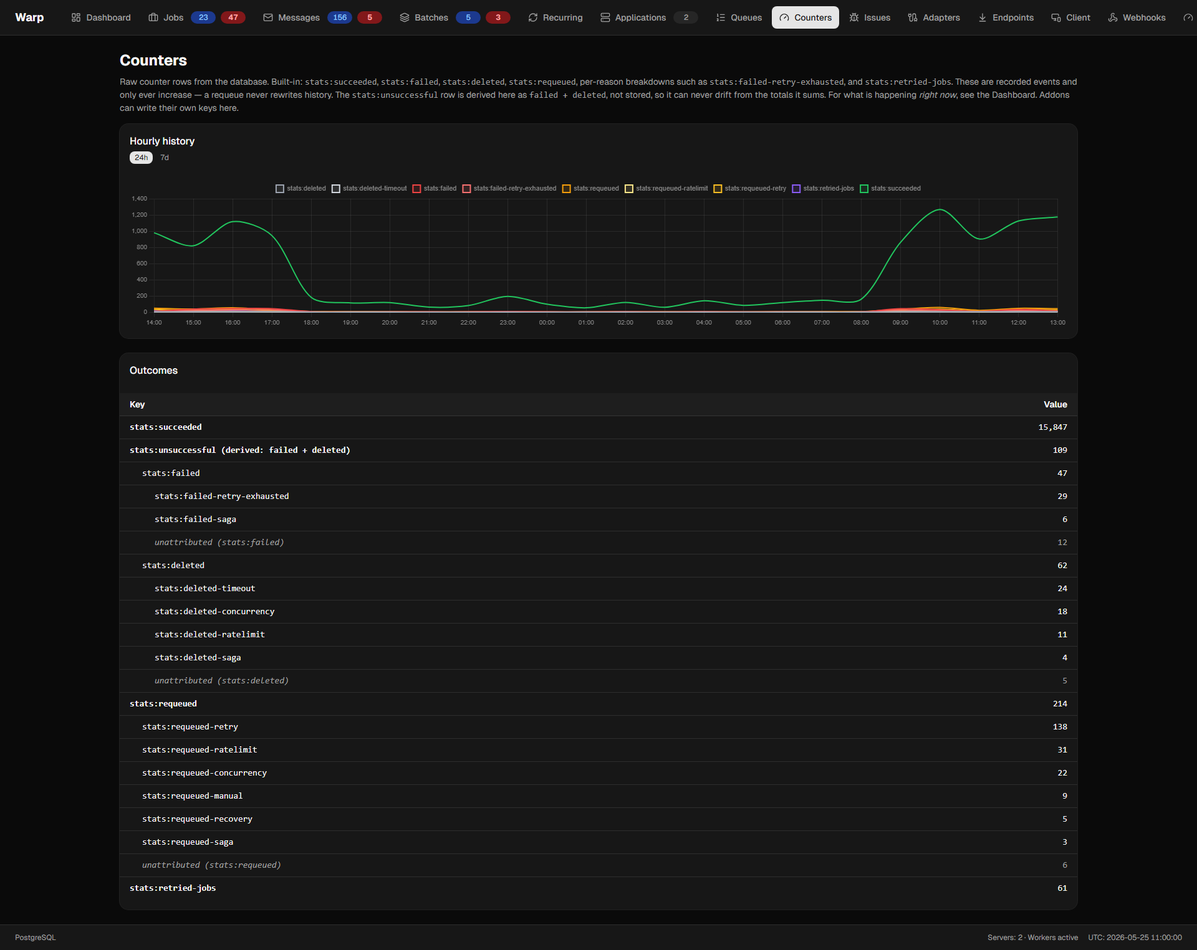
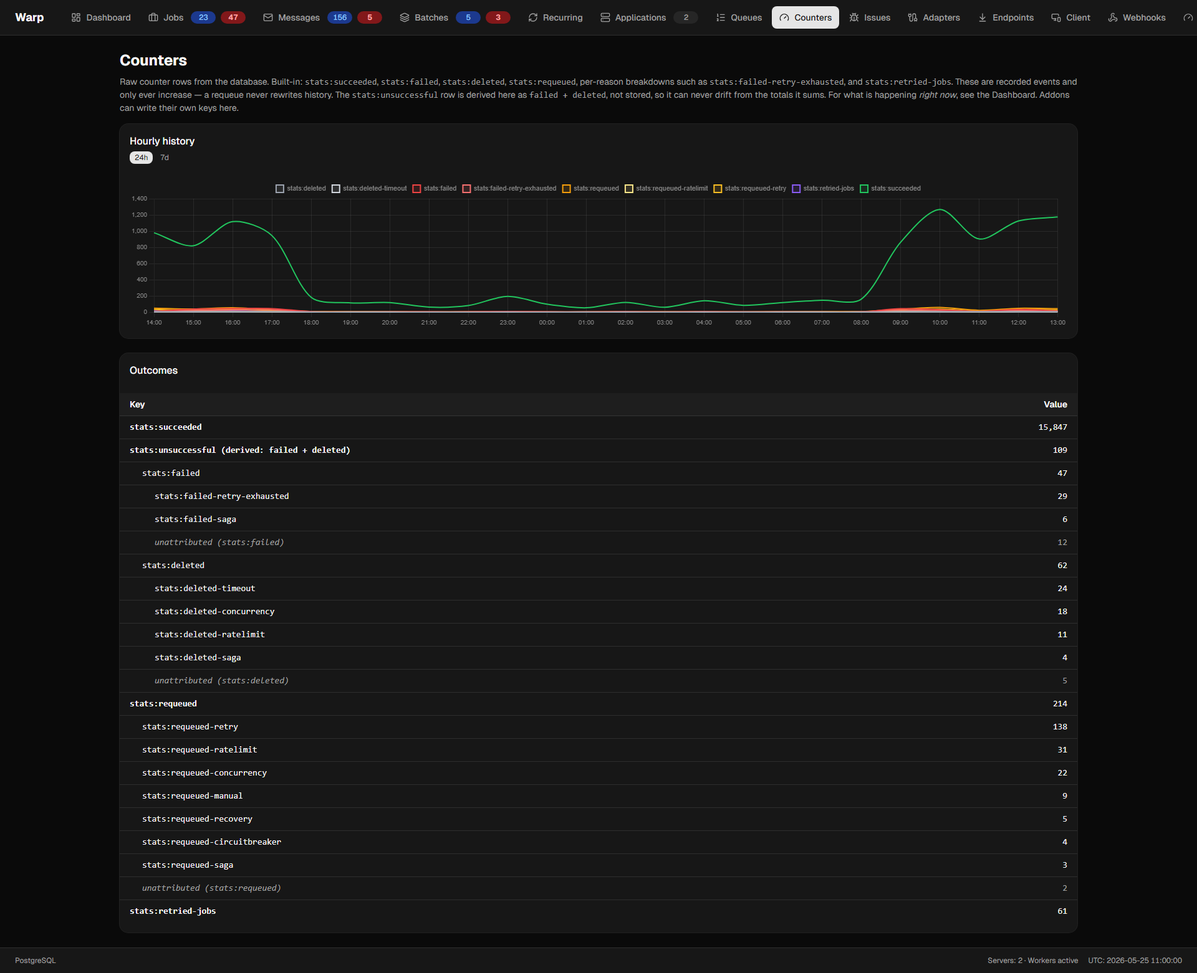
Docs: close the drift from the three review-fix rounds
Audited every doc surface against the code after three rounds of incremental
fixes — five had drifted:

- queue-metrics.md claimed warp.job.requeued is emitted "at finalization";
  it now fires for every requeue (worker, manual, recovery), post-commit on
  the non-worker paths.
- circuit-breaker.md did not document that retry exhaustion (any Failed
  outcome) counts toward the circuit while reschedules/deletes do not.
- background-services.md documented the 30s lease TTL without the 3x
  heartbeat margin AddWarpServer now enforces at startup.
- configuration.md's Queues/DefaultQueue rows did not describe the
  untouched-Queues-follows-DefaultQueue coherence rule.
- ui/counters.md still described the pre-taxonomy page: four flat keys and
  an alphabetical table, no reason breakdown, no retried-jobs, no derived
  umbrella, no unattributed remainder. Rewritten to match the shipped page.

Also: .claude/rules §8.33 updated (CircuitBreaker=9, meter coverage, the
four review-learned interlocks), stats:requeued-circuitbreaker added to the
demo data, and the Counters screenshots regenerated (only the changed page
staged - the harness pixel-churns all 56).

Claude-Session: https://claude.ai/code/session_01647g4ssftH3g6ps4FPA7eb

diff --git a/src/ui/src/demo/data.ts b/src/ui/src/demo/data.ts
@@ -297,6 +297,7 @@ export function getCountersDemo() {
     { key: 'stats:requeued-retry', value: 138 },
     { key: 'stats:requeued-ratelimit', value: 31 },
     { key: 'stats:requeued-concurrency', value: 22 },
+    { key: 'stats:requeued-circuitbreaker', value: 4 },
     { key: 'stats:requeued-manual', value: 9 },
     { key: 'stats:requeued-recovery', value: 5 },
     { key: 'stats:requeued-saga', value: 3 },

diff --git a/.claude/rules/project-specific.md b/.claude/rules/project-specific.md
@@ -53,4 +53,4 @@
 - **§8.30** **Metrics retention tiers** make every time-bucketed `Statistic` series multi-resolution: **fine (5-min) → hourly → daily**, downsampled by rollup instead of the old delete-only prune. **Explicit tier marker** `MetricTiers` (`Warp.Core.Services`, `internal`): trailing suffix `:{m5|h1|d1}:{stamp}` (`yyyy-MM-dd-HH-mm` / `-HH` / day) — chosen over inferring resolution from stamp shape so per-family parsers stay fixed-length + disjoint (§8.6/§8.19). Applies to the hist/pcth families with a windowed consumer or latency histogram — **`jobstat` + `qwait` emit the fine tier** (fine `hist` + a new tiered **`pcth`** latency histogram alongside the untouched lifetime `pct`, for windowed percentiles); **`stats:`/adapter/endpoint/clientevent/errorgroup keep emitting unmarked hourly** and are rolled to daily by the generic pass (no emit change, strictly more history retained than the old delete). **Lifetime totals (`…:{token}`, no date) and lifetime `pct` are untouched.** **Emit change is inside each `*Keys.Build()`** (worker call sites just pass `MetricTiers.Suffix(Fine, now, FineResolutionMinutes)` instead of an hour string) — **zero `CounterAggregator` change** (it folds any key). **`StatisticRollup<TContext>`** is an `IServerTask` (§2.3, registered in `AddServerHostCore` beside `ExpirationCleanup`, `LockKey="warp:stat-rollup"`, cadence `WarpServerConfiguration.StatisticRollupInterval` default **10m**) — **family-agnostic**: `MetricTiers.TryClassifyKey` splits any key into (base, tier, bucket) from the trailing suffix (marked **or** legacy unmarked `:yyyy-MM-dd-HH`, so **pre-3.10 rows migrate to daily automatically**), then per pass it **sums-then-deletes** fine→hourly (older than `FineResolutionRetention` 6h) and hourly→daily (older than `HourlyStatisticsRetention` 7d — repurposed from a delete age), and prunes daily (older than `DailyStatisticsRetention` 90d, `null`=keep forever). **Crash-idempotent** inside the task lock transaction (source gone once its value lands in the parent); retention ordering (fine≪hourly≪daily) keeps targets/sources disjoint, with a guard that drops a colliding target so a pass can never update-then-delete the same row (only reachable if rollup was disabled past the hourly window). The **old delete-only hourly prune** in `ExpirationCleanup` (+ its `TryParseHourlySuffix`) is **removed**. **Readers (all history readers are tier-aware — daily is retained *and* read, not just stored):** `MetricTiers.TryClassifyKey` backs `DashboardStatsService.GetStatsHistory`/`GetCountersHistory`/`GetCounters` (tiered keys stay out of the counters *table*; fine buckets **down-bin to their hour**, grouped by base-key + hour), and each per-family chart parser — `AdapterCounterKeys`/`EndpointCounterKeys`/`ClientEventKeys.TryParseHistory` — accepts the marked tiers **and** legacy unmarked hourly and down-bins to the hour, so a rolled-to-daily window past the hourly retention still charts. Lifetime/`pct` reads untouched. **Config** on `WarpConfiguration`: `FineResolutionMinutes` (5; **must be >= 1**, validated fail-fast in `AddWarpServer` along with `fine < hourly < daily` ordering), `FineResolutionRetention`, `HourlyStatisticsRetention`, `DailyStatisticsRetention`; `StatisticRollupInterval` on `WarpServerConfiguration` (the rollup is the **only** pruner of time-bucketed rows now — `null` lets them accumulate). **No schema migration** — all tiers are new rows in the existing `Statistic`/`Counter` tables. This is the storage foundation SLO fast-burn reads its short window from. See `website/docs/features/metrics-retention.md`.
 - **§8.31** **SLO / error budget** turns Warp's durable aggregates into objectives with error-budget + multi-window burn-rate alerting. **Opt-in** `opt.AddSlo(o => o.AddObjective(...))` (registers `ISloMarker` for the dashboard `slo` flag + an insert-if-absent config seeder — DB wins, never clobbers a dashboard edit; a seed failure logs **Error**, not a swallowed Warning, since the schema is migrator-gated present). **Boundary validation** (`SloValidation`, shared by the upsert endpoint → 400 and the seeder/`AddObjective` → throw): Kind in range, positive window, rate target in (0,1), threshold target > 0, latency percentile 1–99 defaulted to 95, percentile cleared for non-latency kinds — a malformed objective can't silently pin itself Healthy (window≤0) or Breaching (rate target>1). **Entities** (always-in-schema §2.11, mirrored §2.14): `SloDefinition` (`SloKind` {SuccessRate=1, QueueWaitLatency=2, ExecutionLatency=3, BacklogDepth=4, DeadlineAttainment=5}, Dimension=job-type/queue/`*`, Application?, TargetValue, Percentile?, WindowSeconds, Enabled; enums from 1 §8.11) + `SloEvaluation` (1:1, PK=`SloDefinitionId` — **`ValueGeneratedNever()`**: a caller-supplied FK-as-PK, not an IDENTITY, or SqlServer rejects the explicit insert while Postgres tolerates it; Attainment, BudgetRemaining, BurnRateShort/Long, `SloState` {Healthy=1, Warning=2, Breaching=3, Acknowledged=4, **NoData=5**}, AcknowledgedUntil?, LastEvaluatedAt). **`SloEvaluator<TContext>`** is an `IServerTask` (§2.3, like `ErrorGroupAggregator`, registered in `AddWarpServerCore`; cadence `WarpConfiguration.SloEvaluationInterval` default **1m**, null disables) — reads the already-folded `jobstat`/`qwait`/`qbacklog`/`deadline` aggregates via the merged Statistic+Counter read, computes attainment/budget/burn with pure **`SloMath`** (rate `budget = 1 − burn`, `burn = errorRate ÷ allowedError`; threshold `budget = (target − observed)/target`; one `Classify`), upserts `SloEvaluation`, and buffers a breach event dispatched **post-commit from `OnCommittedAsync`** (§8.25 — never `ExecuteAsync`). **No-data ≠ Healthy:** an objective whose dimension matched **zero** observations in the window is `SloState.NoData` (a typo'd job-type/queue reads distinct from a false green, never alerts); the unknown-`Kind` evaluator arm logs **Error** and reports NoData, never a false Healthy. **Fast-burn:** short window = `WindowSeconds/12` floored to **5 min**, genuinely populated by reading the **fine tier (§8.30)**; latency kinds read the tiered **`pcth`** histogram (windowed percentiles) over the **job-domain bucket ladder widened to 5 min** (`JobStatsKeys`/`QueueWaitKeys` gain 30s/60s/300s rungs — job execution/queue-wait run past the 10s HTTP-scale top, so a 30s/60s latency target observes and breaches instead of saturating at 10s; one `BucketFor` write per finalization, no hot-path cost). **Deadline-miss:** derived at finalization from `TimeoutDeadlineUtc` (§8.7) vs the wall clock (nothing added to the fetch/claim loop) — a job reaching **any** terminal state past the deadline is a miss, **including a late `Completed`** (a token-ignoring handler, §8.5); one always-on meter + a sink-gated tiered **`deadline`** counter. **Alerting:** healthy→breaching edge fires `WarpEventType.SloBreached`=7 (`BacklogBreached`=5 wired for depth objectives), once per edge, **ack-suppressed**. **Read/command:** `ISloQueryService`/`ISloCommandService` registered by `AddWarp` (dashboard-only hosts resolve them); routes `GET/POST/DELETE {prefix}/api/slo(+/{id})` + `/ack`; dashboard **SLOs** page (`/slo`, gated on the `slo` addon flag). Worker hot path untouched beyond the one deadline-miss counter (§0.2/§6.1). See `website/docs/features/slo-error-budget.md`.
 - **§8.32** **Dropped-record visibility.** The lossy recording pipelines (adapters §8.19, endpoints §8.21, client §8.27) drop records when their bounded channel is full and increment an always-on OTel meter (`warp.{adapter|endpoint|client}.records_dropped`) — reliable because the drop signal never rides the lossy channel it reports on, but only observable through an OTel backend. To make a saturated pipeline visible **in-box** (the whole point of the dashboard): each drop site also calls `DroppedRecordCounters.Track(DropPipeline, n)` (a single interlocked add — safe on the recording-failure path) into a process-global counter; a per-process `DroppedRecordReporter<TContext>` (`BackgroundService`, **not** a locked `IServerTask` — the counters are per-process, each process reports its own; 30s cadence, **no DB work when nothing dropped** so it's a good neighbour) drains them and folds each delta to the durable tiered stat `warpsys:records-dropped:{pipeline}` (`DroppedRecordKeys`, disjoint `warpsys` first-segment namespace §8.6/§8.19; classified/rolled by the generic `MetricTiers` reader §8.30). `DashboardStatsService` sums the last-24h buckets (windowed, so the tile self-clears) into `DashboardStatistics.{Adapter|Endpoint|Client}RecordsDropped`, surfaced as a red-when-nonzero **Dropped (24h)** tile on the dashboard. The reporter also raises a **throttled** (per-pipeline 5-min cooldown) `WarpEventType.RecordsDropped`=8 (`RecordsDroppedEvent`, Warning) post-commit through the notifier seam (§8.25), so a saturated pipeline is alertable in Slack/email **without OTel**. Enums from 1 (`DropPipeline {Adapter=1, Endpoint=2, Client=3}`).
-- **§8.33** **Outcome metrics taxonomy (append-only `stats:`, reason-attributed breakdown).** Governing principle: **a metric records an event; current state is a query.** Every `stats:` key is now **append-only** — `JobCommandService.DecrementStatForState` and the decrement arm of `ApplyRequeueAccounting` are **removed, do not reintroduce them**: restating `succeeded`/`failed`/`deleted` on requeue caused four distinct defects — (1) the decrement wrote the *lifetime* key only, so a lifetime total silently disagreed with the sum of its own hourly buckets, (2) the dashboard's realtime rate chart deltas the total and clamped the resulting negative to 0 (`stores/dashboard.ts`), under-reporting the tick, (3) it destroyed the counter's only unique information — failed jobs never auto-expire (§8.2), so the `Job` query already answers "currently failed" and the counter's one added value is "ever failed", which is exactly what the decrement removed, and (4) nothing stores which reason produced a job's *previous* terminal state, so a restated total can never reconcile with an append-only breakdown. Consequence to state in release notes: `stats:succeeded`/`failed`/`deleted` mean **ever**, not *latest outcome was*, and grow for anyone who requeues; the live tiles and nav badges are unaffected because they query `Job`. **Three levels, and the umbrella is DERIVED not stored:** per-state totals (`stats:{succeeded|failed|deleted|requeued}`) + per-reason breakdown (`stats:{state}-{reason}`) + the not-Completed umbrella computed **on read** as `failed + deleted` (`CountersPage.buildRows`). A stored `stats:unsuccessful` row was built and reverted: it was maintained at the 2 worker finalization sites while `failed`/`deleted` also move at 6 others (`DeleteJob`, `BulkDeleteJobs`, both crash-recovery arms, both worker cancellation paths), so it under-reported from the first delete and the page drew a child larger than its parent — **a pure function of two stored values must not be a third stored value**; `OutcomeMetricsTestsBase.AssertUmbrellaIsNotStored` pins it. Breakdown rows are written **independently of** the state total, never derived from it, so an outcome no addon claimed still lands in the total and shows as the **unattributed remainder** (surfaced in the UI, including the impossible `attributed > total` direction). **`OutcomeReason` is a closed enum** (`Warp.Core.Enums`, from 1 §8.11: `Retry=1, RetryExhausted=2, Concurrency=3, RateLimit=4, Timeout=5, Saga=6, Manual=7, Recovery=8`) stamped on the `JobOutcome` each behaviour already constructs (12 sites) — **boundedness is the cost model, not a style choice**: `JobOutcome` is public API and a free-string reason would let any caller mint unbounded `Statistic` rows, turning a fixed ~14-key family into keys-per-value. **`OutcomeReasonTokens.For` is a `switch` expression, never `ToString().ToLowerInvariant()`** — it allocates nothing per finalization and pins the wire format so an enum rename cannot silently orphan every historical row under the old key; it **returns the literal `"unknown"` rather than throwing** because every caller runs inside the job's own `catch (Exception e)` at finalization, where a throw is laundered into a fake handler failure, re-enters finalization, throws again and escapes before `SaveChangesAsync` — leaving the job `Processing` for `StaleJobRecovery` to requeue and re-poison forever (instrumentation never out-throws, §8.19/§8.25). A guard test asserts every member maps to a distinct token that is not `unknown`. **Both worker paths must move in lockstep** (§0.2/§6.1) — `WarpWorkerService.FinalizeJobState` and `WarpDispatcherWorker`'s `CompletionBatch` keep separate copies of the composition, §8.29 records the dispatcher path being missed once, and `RetryStatusDispatcherIntegrationTestsBase` (`UseDispatcher=true`) is the guard. Same lockstep applies to the `willRetry` label: it tests `State.Enqueued or State.Scheduled`, because `JobOutcome.RescheduledState` returns `Scheduled` for any future target and `RetryOptions.Delays` defaults to `[15,60,300]` — testing `Enqueued` alone labelled every default retry `status=failed` on `warp.job.completed`. **`stats:retried-jobs` counts DISTINCT jobs that entered retry, not retry events**, and adds **no schema column**: it reuses `Job.Metadata.RetriedTimes`, already read **before** handler execution via the pinned `WarpTelemetryAttributes.RetryMetadataRetriedTimesKey` constant (so the worker keeps no dependency on the Retry addon), where an incoming count of `0` on a `Retry` outcome is exactly "this job's first retry". Manual (`RequeueJob`/`BulkRequeueJobs`) and crash-recovery (`StaleJobRecovery`) requeues write the **state total AND the reason key** with hourly buckets, counted from the same in-transaction re-query that writes the `Requeued` `JobLog` rows — one counter increment per log row is the invariant. Always-on meter `warp.job.requeued{queue, type, reason, application}` — **no key tags**, `ConcurrencyKey`/`RateLimitKey` are unbounded and PII-adjacent (§1.2) and stay on spans. Keys stay lifetime + **unmarked hourly**, so `CounterAggregator` and `StatisticRollup` (§8.30) need zero changes. `StatSurfaceTestsBase` is the cross-key guard — one mixed workload, the complete key/value map asserted exactly on both providers. See `website/docs/features/queue-metrics.md`.
+- **§8.33** **Outcome metrics taxonomy (append-only `stats:`, reason-attributed breakdown).** Governing principle: **a metric records an event; current state is a query.** Every `stats:` key is now **append-only** — `JobCommandService.DecrementStatForState` and the decrement arm of `ApplyRequeueAccounting` are **removed, do not reintroduce them**: restating `succeeded`/`failed`/`deleted` on requeue caused four distinct defects — (1) the decrement wrote the *lifetime* key only, so a lifetime total silently disagreed with the sum of its own hourly buckets, (2) the dashboard's realtime rate chart deltas the total and clamped the resulting negative to 0 (`stores/dashboard.ts`), under-reporting the tick, (3) it destroyed the counter's only unique information — failed jobs never auto-expire (§8.2), so the `Job` query already answers "currently failed" and the counter's one added value is "ever failed", which is exactly what the decrement removed, and (4) nothing stores which reason produced a job's *previous* terminal state, so a restated total can never reconcile with an append-only breakdown. Consequence to state in release notes: `stats:succeeded`/`failed`/`deleted` mean **ever**, not *latest outcome was*, and grow for anyone who requeues; the live tiles and nav badges are unaffected because they query `Job`. **Three levels, and the umbrella is DERIVED not stored:** per-state totals (`stats:{succeeded|failed|deleted|requeued}`) + per-reason breakdown (`stats:{state}-{reason}`) + the not-Completed umbrella computed **on read** as `failed + deleted` (`CountersPage.buildRows`). A stored `stats:unsuccessful` row was built and reverted: it was maintained at the 2 worker finalization sites while `failed`/`deleted` also move at 6 others (`DeleteJob`, `BulkDeleteJobs`, both crash-recovery arms, both worker cancellation paths), so it under-reported from the first delete and the page drew a child larger than its parent — **a pure function of two stored values must not be a third stored value**; `OutcomeMetricsTestsBase.AssertUmbrellaIsNotStored` pins it. Breakdown rows are written **independently of** the state total, never derived from it, so an outcome no addon claimed still lands in the total and shows as the **unattributed remainder** (surfaced in the UI, including the impossible `attributed > total` direction). **`OutcomeReason` is a closed enum** (`Warp.Core.Enums`, from 1 §8.11: `Retry=1, RetryExhausted=2, Concurrency=3, RateLimit=4, Timeout=5, Saga=6, Manual=7, Recovery=8, CircuitBreaker=9`) stamped on the `JobOutcome` each behaviour already constructs (13 sites) — **boundedness is the cost model, not a style choice**: `JobOutcome` is public API and a free-string reason would let any caller mint unbounded `Statistic` rows, turning a fixed ~14-key family into keys-per-value. **`OutcomeReasonTokens.For` is a `switch` expression, never `ToString().ToLowerInvariant()`** — it allocates nothing per finalization and pins the wire format so an enum rename cannot silently orphan every historical row under the old key; it **returns the literal `"unknown"` rather than throwing** because every caller runs inside the job's own `catch (Exception e)` at finalization, where a throw is laundered into a fake handler failure, re-enters finalization, throws again and escapes before `SaveChangesAsync` — leaving the job `Processing` for `StaleJobRecovery` to requeue and re-poison forever (instrumentation never out-throws, §8.19/§8.25). A guard test asserts every member maps to a distinct token that is not `unknown`. **Both worker paths must move in lockstep** (§0.2/§6.1) — `WarpWorkerService.FinalizeJobState` and `WarpDispatcherWorker`'s `CompletionBatch` keep separate copies of the composition, §8.29 records the dispatcher path being missed once, and `RetryStatusDispatcherIntegrationTestsBase` (`UseDispatcher=true`) is the guard. Same lockstep applies to the `willRetry` label: it tests `State.Enqueued or State.Scheduled`, because `JobOutcome.RescheduledState` returns `Scheduled` for any future target and `RetryOptions.Delays` defaults to `[15,60,300]` — testing `Enqueued` alone labelled every default retry `status=failed` on `warp.job.completed`. **`stats:retried-jobs` counts DISTINCT jobs that entered retry, not retry events**, and adds **no schema column**: it reuses `Job.Metadata.RetriedTimes`, already read **before** handler execution via the pinned `WarpTelemetryAttributes.RetryMetadataRetriedTimesKey` constant (so the worker keeps no dependency on the Retry addon), where an incoming count of `0` on a `Retry` outcome is exactly "this job's first retry". Manual (`RequeueJob`/`BulkRequeueJobs`) and crash-recovery (`StaleJobRecovery`) requeues write the **state total AND the reason key** with hourly buckets, counted from the same in-transaction re-query that writes the `Requeued` `JobLog` rows — one counter increment per log row is the invariant. Always-on meter `warp.job.requeued{queue, type, reason, application}` fires for EVERY requeue — both worker finalization paths (beside the state total, `unknown` token for a reasonless user outcome), manual, and crash recovery; the manual/recovery emissions are POST-COMMIT (buffered via `OnCommittedAsync` in `StaleJobRecovery`, per §8.25 — an inline emission under the task-host lock transaction records requeues a rollback undoes). **no key tags**, `ConcurrencyKey`/`RateLimitKey` are unbounded and PII-adjacent (§1.2) and stay on spans. **Interlocking behaviours (learned via review, keep them):** the circuit breaker counts a `Failed` outcome as a dependency failure (retry EXHAUSTION stamps `Failed`/`RetryExhausted`; skipping all outcome-bearing attempts made the breaker blind in the documented breaker-outer order) but never reschedule/delete outcomes; `RetryExhausted` is stamped only when `maxRetries > 0` (the behaviour runs for every job once `AddRetry()` is called and `MaxRetries` defaults to 0 — unguarded, every attribute-less type's first failure read "exhausted"); an untouched `WarpServerConfiguration.Queues` follows the RESOLVED `DefaultQueue` (`WarpServerRegistration` passes it — the server builder's copy is wrong in the AddWarp-first two-builder shape), with the explicitness flag guarded against `ConfigurationBinder` invoking setters for absent keys; `AddWarpServer` validates `BackgroundServiceLeaseTtl` (or its 30s default — `DefaultBackgroundServiceLeaseTtl`, one shared constant) ≥ 3× `HealthCheckInterval` at startup. Keys stay lifetime + **unmarked hourly**, so `CounterAggregator` and `StatisticRollup` (§8.30) need zero changes. `StatSurfaceTestsBase` is the cross-key guard — one mixed workload, the complete key/value map asserted exactly on both providers. See `website/docs/features/queue-metrics.md`.

diff --git a/website/docs/ui/counters.md b/website/docs/ui/counters.md
@@ -8,14 +8,19 @@ Raw view of every counter row in the database. Used for forensics ("what events 
 
 ## Built-in counters
 
-The worker writes the following keys on every job outcome:
+Every counter is **append-only**: it records that an outcome happened, and a later requeue or delete never un-counts it. `stats:succeeded` / `failed` / `deleted` therefore mean *ever*, not *currently* — "how many are failed right now" is the Failed tile, which queries the `Job` table.
+
+Each **state total** carries a **reason breakdown** written by the addon that caused the outcome:
 
 | Key | Incremented when |
 |---|---|
-| `stats:succeeded` | A job's handler completes successfully |
-| `stats:failed` | A job's handler throws and retries are exhausted |
-| `stats:deleted` | A job ends in the `Deleted` state (user cancellation, mutex Skip, stale recovery, etc.) |
-| `stats:requeued` | A job is put back on the queue without finishing — covers Retry backoff and Mutex Wait |
+| `stats:succeeded` | A job's handler completes successfully. No reason breakdown — nothing stamps a reason on a success |
+| `stats:failed` | A job ends `Failed` — plus `-retry-exhausted` (a granted retry budget was spent) and `-saga` |
+| `stats:deleted` | A job ends `Deleted` — plus `-timeout`, `-concurrency` (mutex/semaphore Skip), `-ratelimit`, `-saga` |
+| `stats:requeued` | A job goes back on the queue without finishing — plus `-retry`, `-concurrency` (Wait), `-ratelimit` (Wait), `-circuitbreaker`, `-saga`, `-manual` (dashboard requeue), `-recovery` (crash recovery) |
+| `stats:retried-jobs` | A job enters retry for the **first** time — distinct jobs, where `requeued-retry` counts events |
+
+Totals are written independently of their breakdown, so an outcome no addon claimed (a plain handler throw) still lands in its total; the page shows the difference as an **unattributed** row rather than letting the numbers look broken. `stats:unsuccessful` is **derived on read** as `failed + deleted` and never stored.
 
 Each event also writes a parallel `:{yyyy-MM-dd-HH}` hourly key so the chart can break the same metric down by hour.
 
@@ -23,9 +28,9 @@ Each event also writes a parallel `:{yyyy-MM-dd-HH}` hourly key so the chart can
 
 Two sections, polled every 5s:
 
-**Hourly history chart** — every hourly counter is its own series. Toggle 24h / 7d. Click a legend entry to hide that series. Built-in metrics get fixed colors (succeeded green, failed red, deleted gray, requeued amber); addon-defined keys get a deterministic color hashed from the key name so it stays the same across reloads.
+**Hourly history chart** — every hourly counter is its own series. Toggle 24h / 7d. Click a legend entry to hide that series. Built-in metrics get fixed colors in family hues (succeeded green, failed reds, deleted grays, requeued ambers — breakdown keys tint their parent's hue); addon-defined keys get a deterministic color hashed from the key name so it stays the same across reloads.
 
-**Counters table** — the rolled-up totals (lifetime values), one row per key, sorted alphabetically. Hourly variants are filtered out of this view; the chart consumes them separately.
+**Outcomes table** — the lifetime totals rendered as the hierarchy above: the derived `unsuccessful` umbrella over `failed` and `deleted`, each state total over its reason rows, with the unattributed remainder (muted) when a total exceeds the sum of its reasons — and a loud `over-attributed` row for the impossible opposite direction. Keys the hierarchy doesn't claim (addon-defined counters) follow in a flat **Other** table, sorted alphabetically. Hourly variants are filtered out of both; the chart consumes them separately.
 
 import Screenshot from '@site/src/components/Screenshot';
 

diff --git a/website/docs/operations/configuration.md b/website/docs/operations/configuration.md
@@ -20,7 +20,7 @@ builder.Services.AddWarp<AppDbContext>(options =>
 | Option | Type | Default | Description |
 |--------|------|---------|-------------|
 | `Schema` | `string?` | `"warp"` | Database schema for all Warp tables. Set to `null` for the database's default schema. |
-| `DefaultQueue` | `string` | `"default"` | Queue used when no queue is specified at publish time |
+| `DefaultQueue` | `string` | `"default"` | Queue used when no queue is specified at publish time. The implicit worker group follows it when `Queues` is left untouched (see the worker options below). |
 | `JobExpirationTimeout` | `TimeSpan` | `1 day` | How long completed/deleted jobs are kept before cleanup. Failed jobs never expire. |
 
 ### Naming Conventions
@@ -171,7 +171,7 @@ builder.Services.AddWarpServer<AppDbContext>(options =>
 | `PollingInterval` | `TimeSpan` | `10 seconds` | Delay between polls when no jobs are available. Also serves as the floor for exponential backoff — it resets to this floor the moment a job is processed, and in-process enqueue signals (and DB push) shortcut it entirely. |
 | `MaxPollingInterval` | `TimeSpan` | `30 seconds` | Upper bound on the polling delay during idle periods. The delay grows from `PollingInterval` by `PollingIntervalFactor` on each empty poll, clamped to this value, and resets instantly when a job is processed. |
 | `PollingIntervalFactor` | `double` | `2.0` | Multiplier applied to the current polling delay on each consecutive empty poll. Set to `1.0` (or lower) to disable exponential backoff — the delay stays at `PollingInterval`. |
-| `Queues` | `string[]` | `["default"]` | Queues this worker subscribes to. Processed in alphabetical order |
+| `Queues` | `string[]` | follows `DefaultQueue` | Queues this worker subscribes to, processed in alphabetical order. Left untouched, the implicit group polls `[DefaultQueue]` — the queue untargeted publishes actually land on — so setting only `DefaultQueue` cannot strand jobs. An explicitly set value wins outright and is never widened. |
 
 ### Exponential Polling Backoff
 

diff --git a/website/docs/features/background-services.md b/website/docs/features/background-services.md
@@ -138,7 +138,7 @@ Singleton coordination uses a database lease row instead of a Medallion long-hel
 
 **Lease semantics:**
 
-- **TTL:** 30 seconds (configurable via `opt.BackgroundServiceLeaseTtl`).
+- **TTL:** 30 seconds (configurable via `opt.BackgroundServiceLeaseTtl`). Must be at least **3× `HealthCheckInterval`** — the lease is renewed by the heartbeat, and a thinner margin lets one slow round-trip expire a lease whose service is still running. `AddWarpServer` validates this at startup (against the 30s default too, so raising only the heartbeat cadence past 10s also fails fast).
 - **Renewal:** piggybacked on the `Heartbeat` server task (~5s cadence). The heartbeat SQL batch also updates `BackgroundServiceLease.LeaseExpiresAt = now + TTL` for every lease this server currently holds.
 - **Loss detection:** The heartbeat computes which leases it held last beat but not this beat (expired, stolen, or deleted). Each lost-lease name is published as a `BackgroundServiceLeaseLost` signal. The affected supervisor cancels the `CancellationToken` it passed to `ExecuteAsync`, so user code observes `OperationCanceledException` and can exit cleanly.
 - **Acquisition:** A waiting server polls every ~15 seconds (configurable via `opt.BackgroundServiceAcquirePollInterval`). The acquire query is an atomic UPDATE: `SET holder_server_id = @me, lease_expires_at = @now + ttl WHERE holder_server_id IS NULL OR lease_expires_at < @now`. Zero rows returned = lease still held; one row = acquired.

diff --git a/website/docs/features/circuit-breaker.md b/website/docs/features/circuit-breaker.md
@@ -64,6 +64,8 @@ Jitter is applied to `ScheduleTime` so rescheduled jobs don't all hit the downst
 
 Circuit Breaker short-circuits before Retry. If the circuit is open when a job would have retried, the job is rescheduled — but Retry's `RetriedTimes` counter is NOT incremented (the handler didn't run, so there was nothing to retry). The retry budget is preserved for when the circuit closes and the downstream is reachable again.
 
+**Retry exhaustion counts as a breaker failure.** Intermediate retry attempts carry a reschedule outcome and are deliberately not counted — the attempt is not settled, the job will run again. The terminal attempt carries a `Failed` outcome (`retry-exhausted`), and the breaker records it: it is the raw dependency failure, reported by the retry budget that spent itself on it. This is what lets the circuit open during an outage where every job exhausts its retries. More generally, the breaker counts any attempt whose outcome is `Failed` (including a handler that stamps a `Failed` outcome itself and then throws) and skips reschedule/delete outcomes, in every registration order.
+
 ## Interaction with concurrency control
 
 Circuit Breaker runs inside the handler pipeline after the concurrency behavior (Mutex / Semaphore). A full slot short-circuits the job to `Deleted` (Skip mode) or `Enqueued` (Wait mode) before the circuit is consulted — concurrency-rejected jobs don't count toward the failure threshold.

diff --git a/website/docs/features/queue-metrics.md b/website/docs/features/queue-metrics.md
@@ -180,7 +180,7 @@ The fallback is a fixed literal rather than anything derived from the unmapped v
 
 ### Meter
 
-`warp.job.requeued` is a `Counter<long>` emitted unconditionally at finalization, tagged `job.type`, `queue`, `reason`, and `application` (when set).
+`warp.job.requeued` is a `Counter<long>` emitted unconditionally for **every** requeue — worker finalization (retry, mutex Wait, rate-limit Wait, circuit breaker), dashboard requeues (`reason=manual`), and crash recovery (`reason=recovery`) — tagged `job.type`, `queue`, `reason`, and `application` (when set). The manual and recovery paths emit **after** their transaction commits, so a rollback can never leave the meter above the `stats:requeued` counter it mirrors.
 
 It closes a real gap: concurrency and rate limiting already emitted detailed **spans**, but spans are sampled, so "how many jobs bounced off this mutex in the last hour" was not answerable from telemetry at all. The concurrency and rate-limit **keys** are deliberately not tags — they are unbounded and PII-adjacent, and stay on the span where cardinality does not compound.
 
